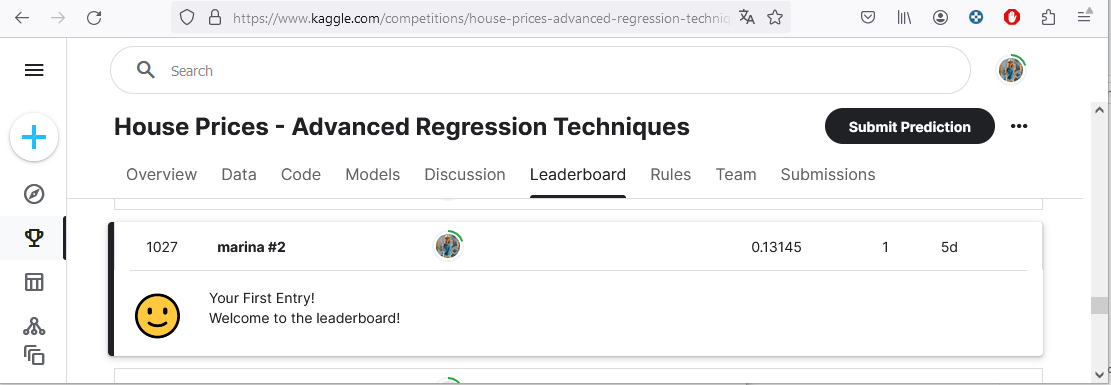
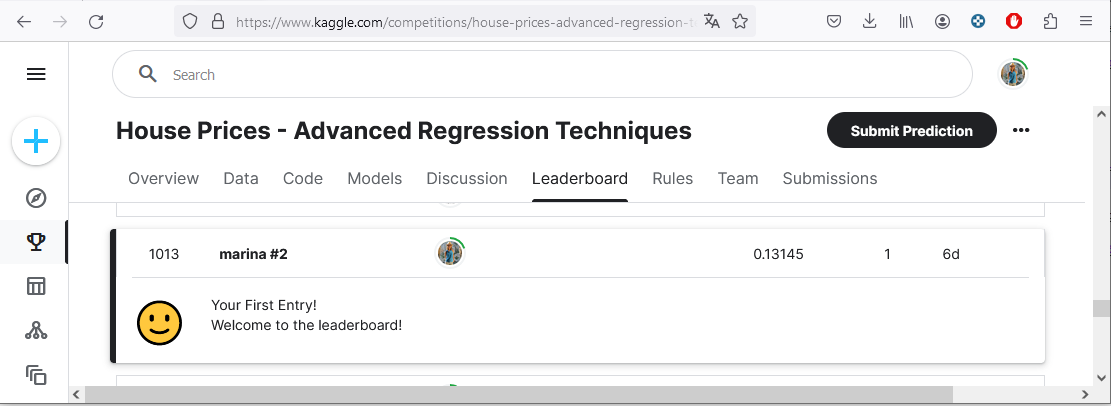
Update position kaggle competition

diff --git a/README.md b/README.md
@@ -8,7 +8,7 @@ Final results are presented in a user friendly [report](https://lookerstudio.goo
 [![Report Screenshot](Report_Screenshot.png)](https://lookerstudio.google.com/reporting/69313d85-34c5-4552-b44d-cefe48c3a18f?s=p-JgLucqaOc)
 
 The results of the best model found in [this project](https://github.com/MarinaMoreno/Estimating-the-selling-price-of-a-house-Regression-/blob/main/Estimating%20the%20selling%20price%20of%20a%20house%20(Regression).ipynb) have been submitted to the [Kaggle competition](https://www.kaggle.com/competitions/house-prices-advanced-regression-techniques/leaderboard)
- and currently the rating of the results is among the top 33%:
+ and currently the rating of the results is among the top 25% (1013th position out of 4031):
 
 [![Position Kaggle Competition](Position_Kaggle_Competition.png)](https://www.kaggle.com/competitions/house-prices-advanced-regression-techniques/leaderboard)
 
